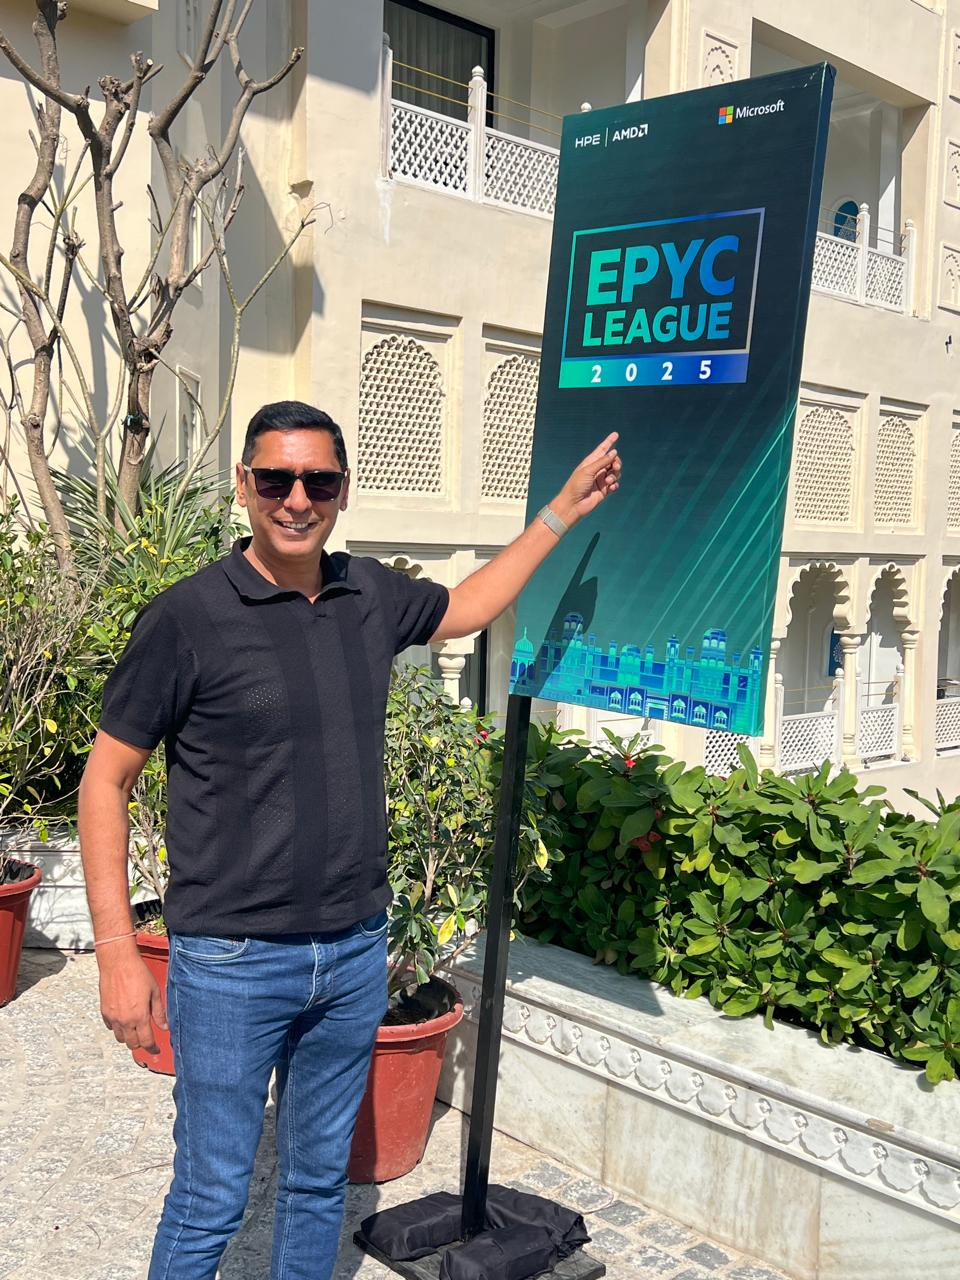
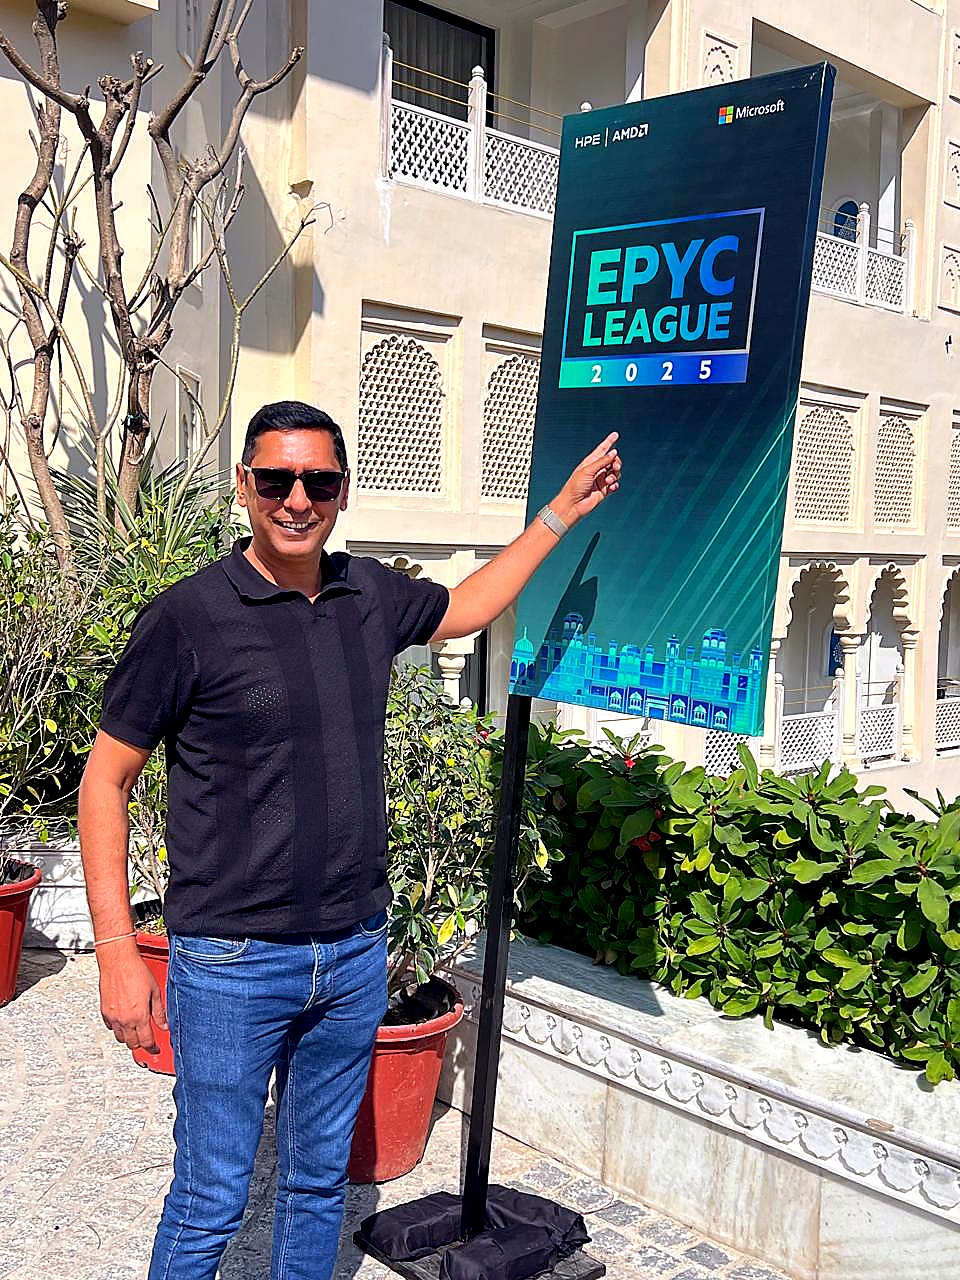
Apply automated Python PIL image enhancements (Unsharp Mask filter, +15% color saturation boost, +25% sharpness, and auto-contrast balancing) across all Ram Kishor Jha photo assets

diff --git a/scratch/enhance_photos.py b/scratch/enhance_photos.py
@@ -1,0 +1,46 @@
+import os
+import glob
+from PIL import Image, ImageEnhance, ImageFilter, ImageOps
+
+ASSETS_DIR = "/home/santosh/projects/experiments/closetoopen/src/assets"
+PUBLIC_DIR = "/home/santosh/projects/experiments/closetoopen/public/images"
+
+def enhance_image(filepath):
+    print(f"Processing: {filepath}")
+    img = Image.open(filepath).convert("RGB")
+    
+    # 1. Auto Contrast
+    img = ImageOps.autocontrast(img, cutoff=0.5)
+    
+    # 2. Contrast Enhancement (+12%)
+    contrast = ImageEnhance.Contrast(img)
+    img = contrast.enhance(1.12)
+    
+    # 3. Color Saturation Boost (+15%)
+    color = ImageEnhance.Color(img)
+    img = color.enhance(1.15)
+    
+    # 4. Sharpness Boost (+25%)
+    sharpness = ImageEnhance.Sharpness(img)
+    img = sharpness.enhance(1.25)
+    
+    # 5. Unsharp Mask Filter for crisp facial details and text
+    img = img.filter(ImageFilter.UnsharpMask(radius=1.2, percent=120, threshold=2))
+    
+    # Overwrite source file with high quality JPEG
+    img.save(filepath, "JPEG", quality=95, optimize=True)
+    
+    # Also save to public/images/
+    filename = os.path.basename(filepath)
+    pub_path = os.path.join(PUBLIC_DIR, filename)
+    img.save(pub_path, "JPEG", quality=95, optimize=True)
+    print(f"Successfully enhanced: {filename}")
+
+def main():
+    jpg_files = glob.glob(os.path.join(ASSETS_DIR, "ram_kishor_jha_*.jpg"))
+    print(f"Found {len(jpg_files)} photos to enhance...")
+    for file_path in jpg_files:
+        enhance_image(file_path)
+
+if __name__ == "__main__":
+    main()
